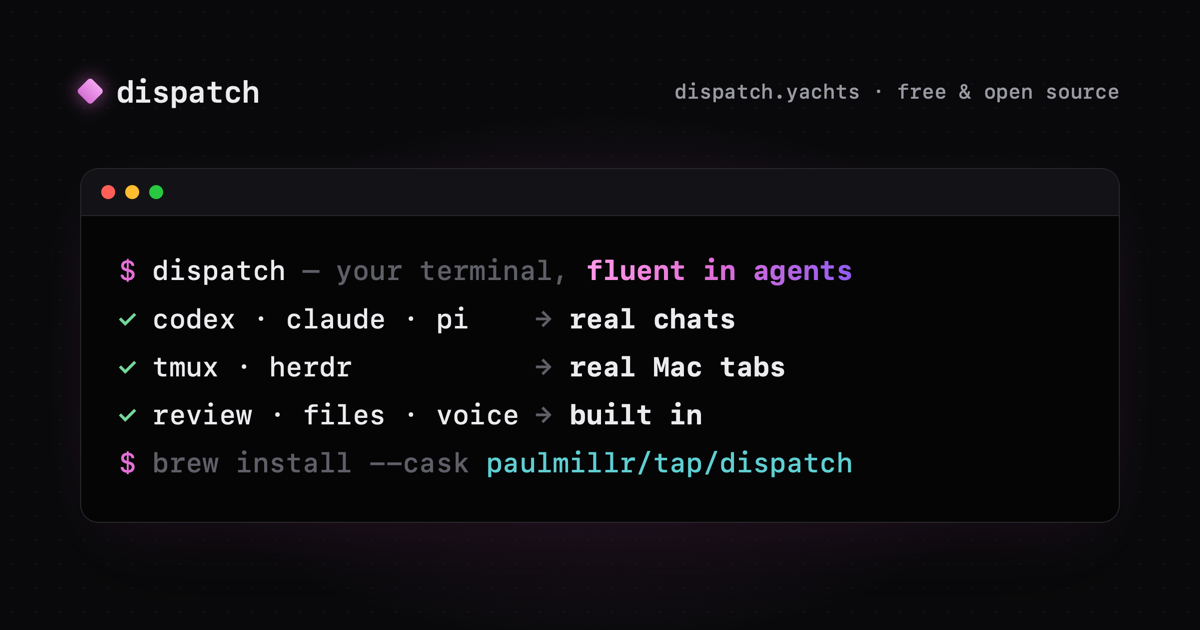
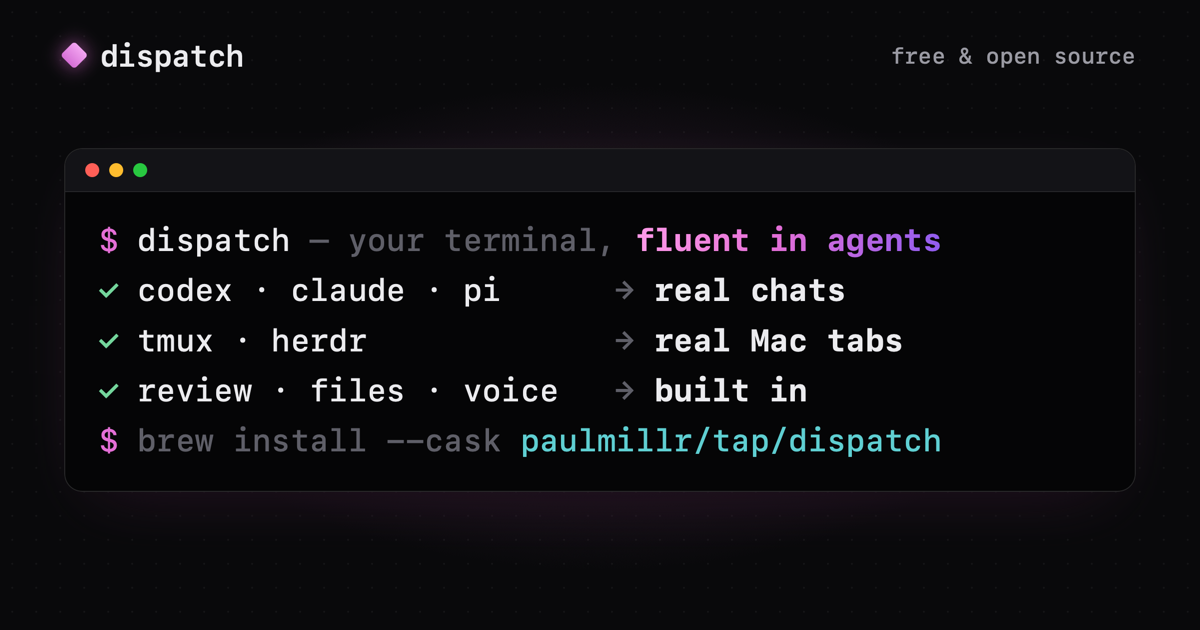
Landing page: theme creator tab, new social card and title

diff --git a/index.html b/index.html
@@ -17,20 +17,20 @@
 
 <meta property="og:type" content="website">
 <meta property="og:site_name" content="Dispatch">
-<meta property="og:title" content="Dispatch — a Mac terminal, fluent in agents">
+<meta property="og:title" content="Dispatch: a native Mac terminal for the agent era">
 <meta property="og:description" content="A native macOS terminal. Codex, Claude Code and Pi become real chats; tmux and herdr tabs become real Mac tabs; review agents like pull requests and talk to them hands-free.">
 <meta property="og:url" content="https://dispatch.yachts/">
-<meta property="og:image" content="https://dispatch.yachts/og.png?v=5e94634a">
+<meta property="og:image" content="https://dispatch.yachts/og.png?v=28bf5570">
 <meta property="og:image:type" content="image/png">
 <meta property="og:image:width" content="1200">
 <meta property="og:image:height" content="630">
-<meta property="og:image:alt" content="Dispatch: your terminal, fluent in agents. Codex, Claude and Pi become real chats; tmux and herdr become real Mac tabs; review, files and voice built in.">
+<meta property="og:image:alt" content="Dispatch, free and open source. A terminal: dispatch, your terminal, fluent in agents. Codex, Claude and Pi become real chats; tmux and herdr become real Mac tabs; review, files and voice built in.">
 
 <meta name="twitter:card" content="summary_large_image">
-<meta name="twitter:title" content="Dispatch — a Mac terminal, fluent in agents">
+<meta name="twitter:title" content="Dispatch: a native Mac terminal for the agent era">
 <meta name="twitter:description" content="A native macOS terminal. Codex, Claude Code and Pi become real chats; tmux and herdr tabs become real Mac tabs; review agents like pull requests and talk to them hands-free.">
-<meta name="twitter:image" content="https://dispatch.yachts/og.png?v=5e94634a">
-<meta name="twitter:image:alt" content="Dispatch: your terminal, fluent in agents. Codex, Claude and Pi become real chats; tmux and herdr become real Mac tabs; review, files and voice built in.">
+<meta name="twitter:image" content="https://dispatch.yachts/og.png?v=28bf5570">
+<meta name="twitter:image:alt" content="Dispatch, free and open source. A terminal: dispatch, your terminal, fluent in agents. Codex, Claude and Pi become real chats; tmux and herdr become real Mac tabs; review, files and voice built in.">
 
 <style>
 :root {
@@ -244,6 +244,10 @@ h2 em { font-style: normal; color: var(--accent); }
 /* A window small enough to show whole on a phone. */
 .stack.fit { max-width: 620px; margin-left: auto; margin-right: auto; }
 .fit img { border-radius: 3.33% / 6.67%; }
+/* Pictures of different heights: the stack takes the shown one's, the others lie over it without taking room. */
+.stack.fit { position: relative; align-items: start; }
+.stack.fit picture[hidden] { position: absolute; inset: 0 0 auto 0; }
+.themes button.creator i { background: conic-gradient(from 90deg, #f38ba8, #fab387, #f9e2af, #a6e3a1, #89dceb, #b4befe, #cba6f7, #f38ba8); }
 
 
 /* doctor */
@@ -502,6 +506,7 @@ footer .r { margin-left: auto; }
         <button type="button" aria-pressed="false" data-show="vaporwave" style="--sw:#180827"><i></i>vaporwave</button>
         <button type="button" aria-pressed="false" data-show="colorblind" style="--sw:#000000;--sw2:#feacd0"><i></i>colorblind</button>
         <button type="button" aria-pressed="false" data-show="rootaccess" style="--sw:#030a04"><i></i>root access</button>
+        <button type="button" aria-pressed="false" data-show="creator" class="creator"><i></i>theme creator</button>
       </div>
     </div>
     <div class="stack frame fit rv" id="theme-stack">
@@ -511,6 +516,7 @@ footer .r { margin-left: auto; }
       <picture data-name="vaporwave" data-focus="0.42" hidden data-caption="Vaporwave Sunset"><source srcset="img/K1-terminal-vaporwave.avif?v=09986960" type="image/avif"><img src="img/K1-terminal-vaporwave.jpg?v=0c1a0e89" width="960" height="480" loading="lazy" alt="Dispatch terminal in the Vaporwave Sunset scheme"></picture>
       <picture data-name="colorblind" data-focus="0.42" hidden data-caption="Modus Vivendi Deuteranopia"><source srcset="img/K1-terminal-colorblind.avif?v=eb33cc50" type="image/avif"><img src="img/K1-terminal-colorblind.jpg?v=5004e7e4" width="960" height="480" loading="lazy" alt="Dispatch terminal in the Modus Vivendi Deuteranopia scheme"></picture>
       <picture data-name="rootaccess" data-focus="0.42" hidden data-caption="Root Access, with its phosphor glow and scanlines"><source srcset="img/K1-terminal-rootaccess.avif?v=97a69e73" type="image/avif"><img src="img/K1-terminal-rootaccess.jpg?v=1833aa73" width="960" height="480" loading="lazy" alt="Dispatch terminal in the Root Access scheme"></picture>
+      <picture data-name="creator" data-focus="0.5" hidden data-caption="Theme creator: a readable scheme grown from one color, in OKLCH"><source srcset="img/K1-theme-creator.avif?v=16a56810" type="image/avif"><img src="img/K1-theme-creator.jpg?v=73d45663" width="1240" height="1172" loading="lazy" style="border-radius: 2.58% / 2.73%" alt="The theme creator: style chips, a live terminal preview with its sixteen colors, an OKLCH color wheel, and Lightness, Vibrancy, Contrast and Tint sliders"></picture>
     </div>
     <p class="caption mono" data-caption-for="theme-stack">Dispatch (OLED)</p>
   </div>
